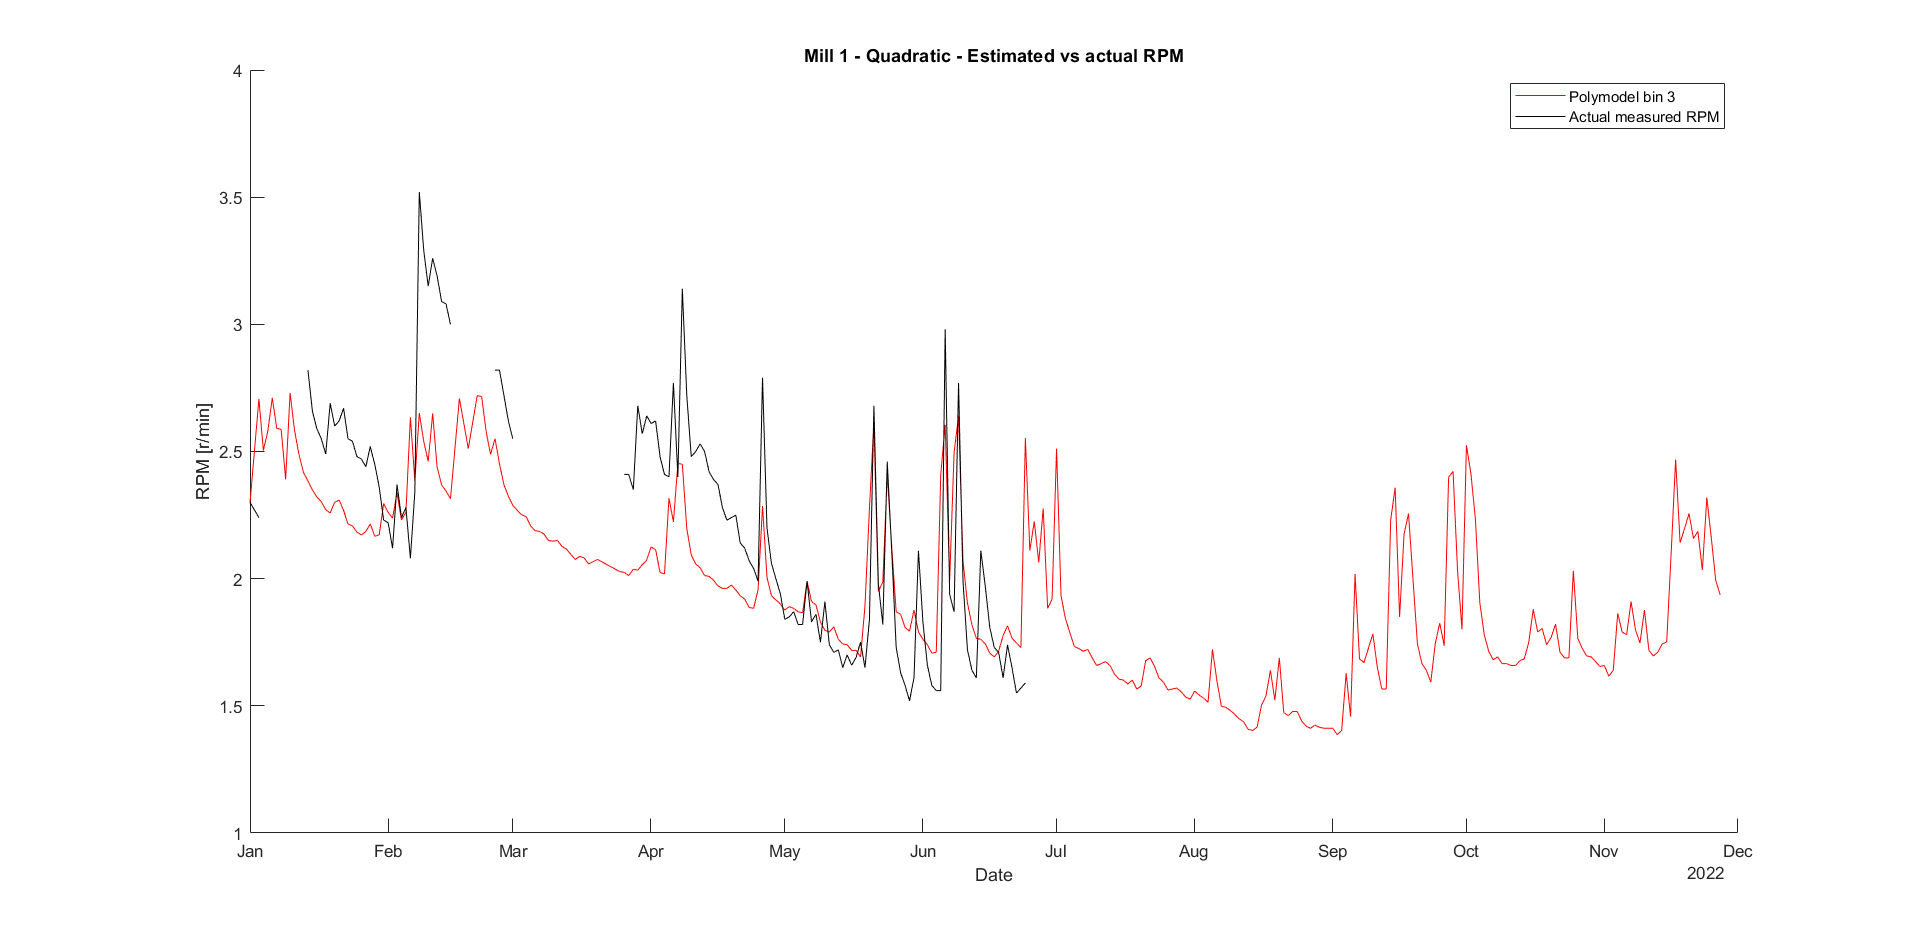
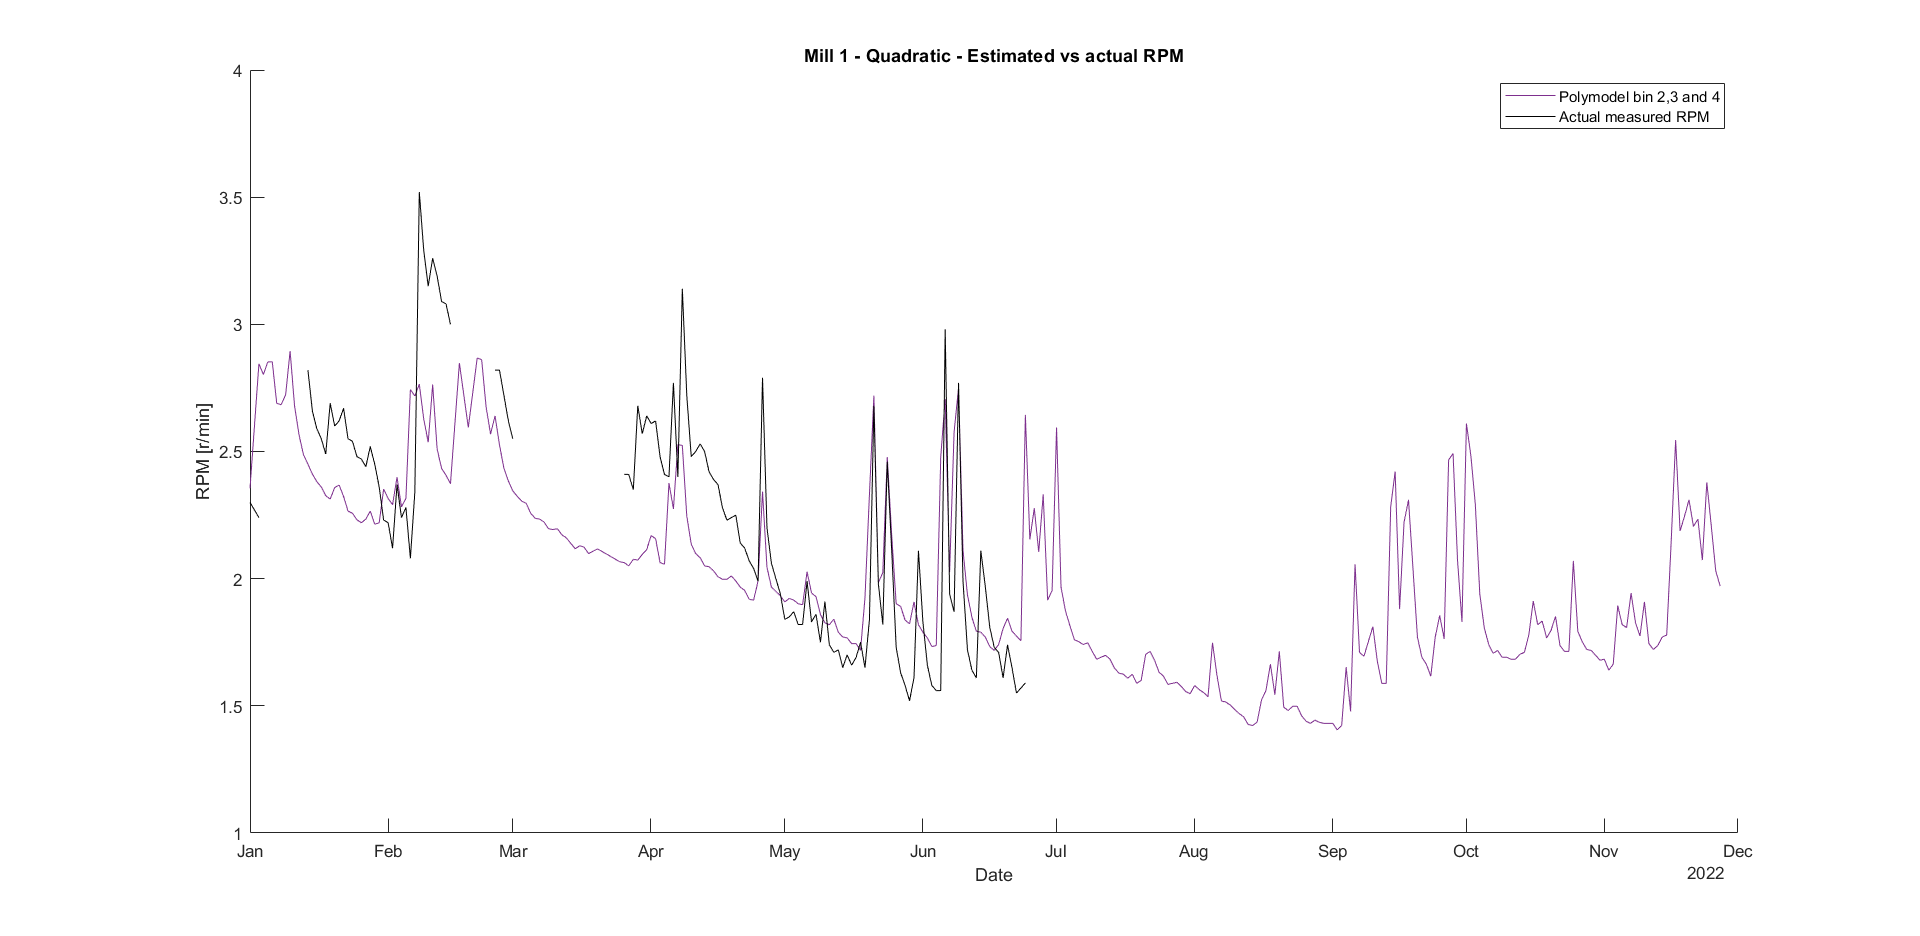
final model estimation

diff --git a/_pages/curve-fit.md b/_pages/curve-fit.md
@@ -121,6 +121,32 @@ The final model is therefore a quadratic fit for both mills. Performing this on 
   <figcaption>Mill 2: quadratic fit all bins</figcaption>
 </figure>
 
+Now that the model of every bin is known, it is beneficial to select a single curve. This allows us to easily extrapolate the data later on, without running into a convoluted analysis of the estimated rpm for every bin.
+An option would be to use the fitted curve from the bin that contains the most data points. For mill 2, this makes a lot of sense as over 70% of the data points belong to the same bin. For mill 1, it is a bit more nuanced. The data points are more evenly distributed over the bins, but are mostly evenly distributed over bin 2, 3 and 4. Since their respective fitted curves are very similar in shape, they can be considered to be one and the same bin. This yields the following final equations and graphs:
+
+<figure>
+  <div class="zoom-without-container">
+        <img src="/images/modelfitgraphs/final-model-mill1.png">
+  </div>
+  <figcaption>Mill 1: final model</figcaption>
+</figure>
+
+<figure>
+  <div class="zoom-without-container">
+        <img src="/images/modelfitgraphs/final-model-mill2.png">
+  </div>
+  <figcaption>Mill 2: final model</figcaption>
+</figure>
+
+<figure>
+  <div class="zoom-without-container">
+        <img src="/images/modelfitgraphs/final-model-both-mills.png">
+  </div>
+  <figcaption>Final model - Mill 1 & 2</figcaption>
+</figure>
+
+### Relation mills
+
 The keen observer might have wondered why the curves are not similar for corresponding bins between the mills. In other words: couldn't we have just done the modelling for every bin of one mill to then transform this curve to the corresponding bin of the other mill? Both mills are designed exactly the same (so they should be roughly the same weight and have roughly the same center of gravity), are driven by the same river and just separated by a brick wall. Unfortunately, there seems to be no good linear connection between the rotational speeds of both mills. There seem to be some external factors (e.g. flow of water, wear on axis/blades...) which do not allow for a simple model.
 
 <figure>
@@ -132,10 +158,9 @@ The keen observer might have wondered why the curves are not similar for corresp
 
 ### Extrapolation
 
-The next step is to extrapolate the rotational speed dating all the way back to 2006. An option would be to use the fitted curve from the bin that contains the most data points. For mill 2, this makes a lot of sense as over 70% of the data points belong to the same bin. For mill 1, it is a bit more nuanced.
+The next step is to extrapolate the rotational speed dating all the way back to 2006. The respective final model from [before](#final-model) is used for every mill.
 
 #### Mill 1
-The data points are a bit more scattered over the bins, but are mostly evenly distributed over bin 2, 3 and 4. Since their respective fitted curves are very similar in shape, the model of bin 3 is chosen to extrapolate with.
 
 <figure>
   <div class="zoom-without-container">
@@ -144,7 +169,7 @@ The data points are a bit more scattered over the bins, but are mostly evenly di
   <figcaption>Mill 1: Estimated rotational speed over time</figcaption>
 </figure>
 
-This view does not say much, but zooming to the year 2022 and comparing it to the actual measurements shows that the model is sufficient for mill 1. Because there is no overpowering fit, it was expected that the extrapolated curve would not fit the actual curve perfectly.
+This view does not say much, but zooming to the year 2022 and comparing it to the actual measurements reveals how good the model is. The figure below shows that the model is sufficient for mill 1. Because there is no overpowering single bin, it was expected that the extrapolated curve would not fit the actual curve perfectly.
 
 <figure>
   <div class="zoom-without-container">
@@ -154,16 +179,15 @@ This view does not say much, but zooming to the year 2022 and comparing it to th
 </figure>
 
 #### Mill 2
-As mentioned before, mill 2 uses the fitted curve of bin 2 as it contains most of the data points.
 
 <figure>
   <div class="zoom-without-container">
         <img src="/images/modelfitgraphs/mill2-extrapolate-quadratic-most-data.png">
   </div>
-  <figcaption>Mill 1: Estimated and actual RPM in 2022</figcaption>
+  <figcaption>Mill 2: Estimated and actual RPM in 2022</figcaption>
 </figure>
 
-Zooming in again shows that the model fits the actual data really well, as expected.
+Zooming in again shows that the model fits the actual data really well, as there is a single overpowering bin.
 
 <figure>
   <div class="zoom-without-container">
